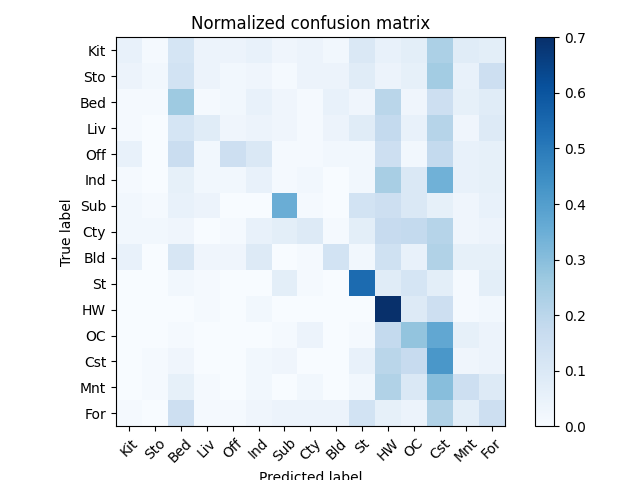
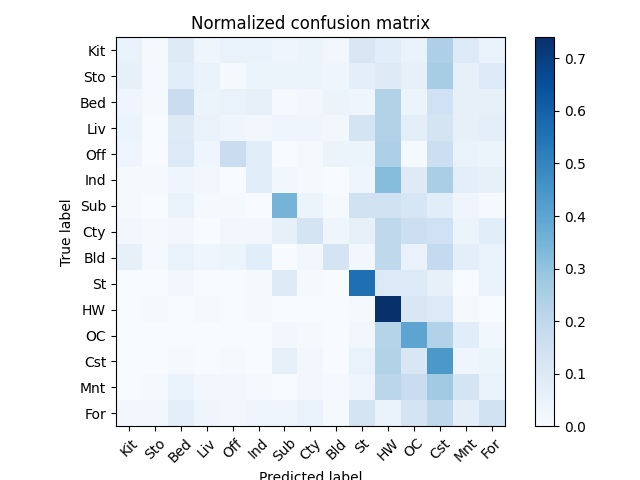
update hw2

diff --git a/homework2/part2/myDatasets.py b/homework2/part2/myDatasets.py
@@ -46,7 +46,6 @@ def get_cifar10_train_val_set(root, ratio=0.9, cv=0):
                 ## TO DO ##
                 # You can add some transforms here
                 transforms.RandomRotation(30),
-                transforms.RandomCrop(32),
                 transforms.RandomHorizontalFlip(),
                 # ToTensor is needed to convert the type, PIL IMG,  to the typ, float tensor.  
                 transforms.ToTensor(),

diff --git a/homework2/part2/README.md b/homework2/part2/README.md
@@ -1,0 +1,18 @@
+# Usage
+### LeNet
+```shell
+# 跑助教的LeNet模型
+$ python3 main.py --model LeNet    
+
+# 測試LeNet在public test set的accuracy
+$ python3 eval.py --model LeNet --path ./save_dir/LeNet/best_model.pt --test_anno ./p2_data/annotations/public_test_annos.json
+```
+
+### myResnet
+```shell
+# 跑學生的myResnet模型，已經設好預設值
+$ python3 main.py                  
+
+# 測試myResnet在public test set的accuracy
+$ python3 eval.py                  
+```
